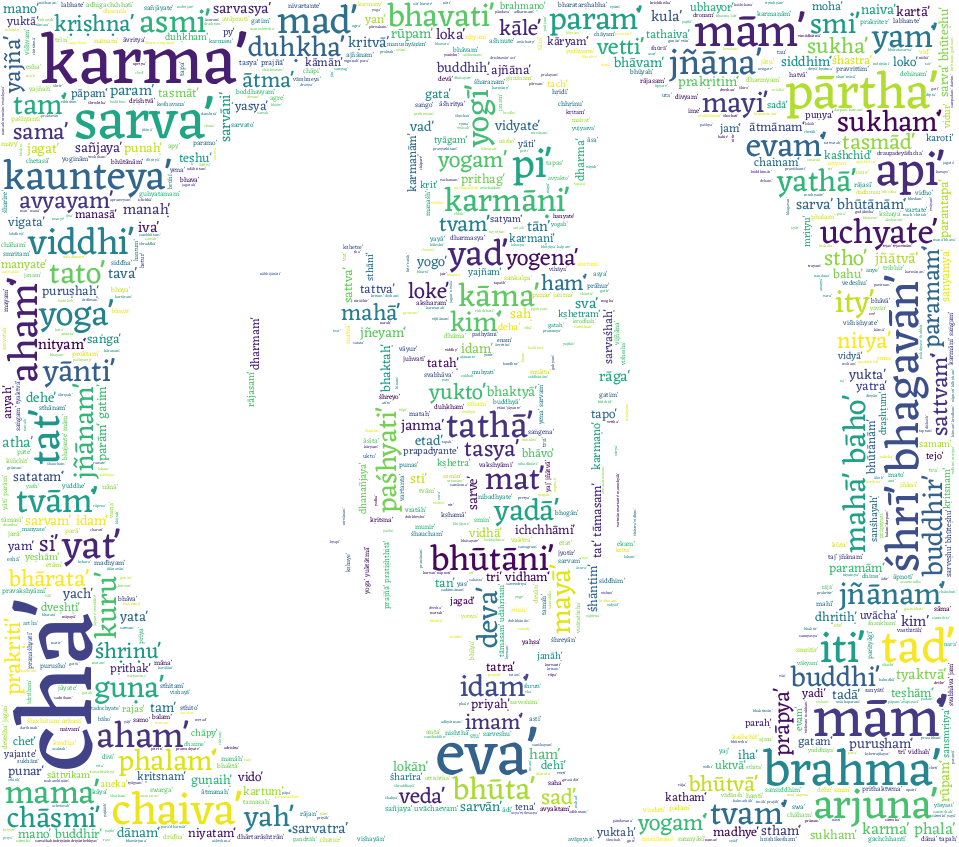
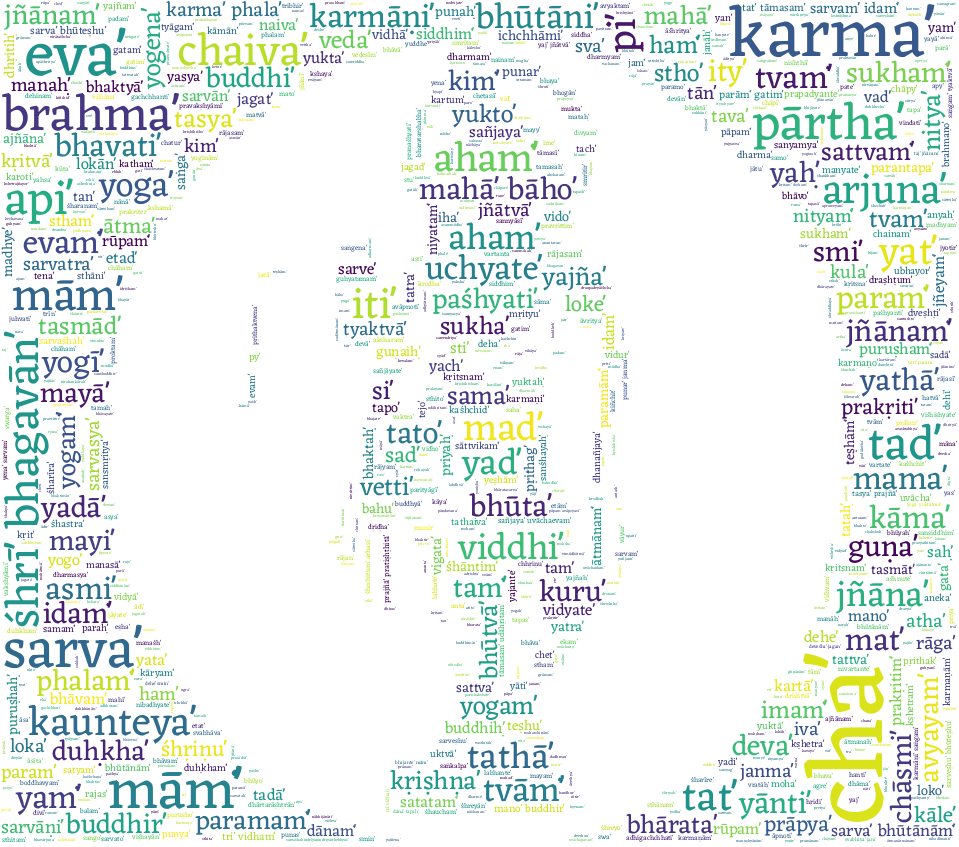
hindi plots, speaker frequency

Changed region(s): [[0.0, 0.0, 0.9979, 1.0], [0.2419, 0.3684, 0.2722, 0.4911], [0.2722, 0.307, 0.3024, 0.3377]]

diff --git a/analysis.py b/analysis.py
@@ -13,6 +13,7 @@ import collections
 from nltk.probability import FreqDist
 from nltk.text import Text
 import nltk
+from tqdm import tqdm
 
 # from indic_transliteration import sanscript
 # Input data files are available in the "../input/" directory.
@@ -229,21 +230,104 @@ def Translit_Wordcloud(data_flat1,savename):
     # stopwords.remove("arjun")
     # stopwords.remove("krishna")
 
-    sherlock_data = Image.open("plots/Krishna.png")
+    img_data = Image.open("plots/Krishna.png")
     # sherlock_data = Image.open("/home/ubuntu/Downloads/k2.png")
-    mask = np.array(sherlock_data)
+    mask = np.array(img_data)
     # plot world cloud- generate for all, then each chapter
     wordfreq1 = collections.Counter(data_flat1)
     text = data_flat1
-    fig = plt.figure(figsize=(20, 10), facecolor='k')
+    plt.figure(figsize=(20, 10), facecolor='k')
     wordcloud = WordCloud(background_color="white", width=1300, height=600, max_words=2000,
-                          font_path='/home/ubuntu/Downloads/Eczar/Eczar-VariableFont_wght.ttf', mask=mask).generate(
-        str(text))
+                          font_path='/home/ubuntu/Downloads/Eczar/Eczar-VariableFont_wght.ttf', mask=mask).generate(str(text)) #,contour_width=1, contour_color='steelblue'
+    # wordcloud.to_file('plots/WC_krish.png')
+    wordcloud.to_file('plots/' + savename)
+    #show
     plt.imshow(wordcloud, interpolation='bilinear')
     plt.axis("off")
-    # wordcloud.to_file('plots/WC_krish.png')
-    wordcloud.to_file('plots/'+ savename)
     plt.show()
+
+
+    # #-----------create coloring from image
+    # Colorimg = Image.open("plots/k2.png")
+    # mask = np.array(Colorimg)
+    # image_colors = ImageColorGenerator(mask)
+    # # plot world cloud- generate for all, then each chapter
+    # wordfreq1 = collections.Counter(data_flat1)
+    # text = data_flat1
+    # fig = plt.figure(figsize=(20, 10), facecolor='k')
+    # wordcloud = WordCloud(background_color="white", width=1300, height=600, max_words=2000,
+    #                       font_path='/home/ubuntu/Downloads/Eczar/Eczar-VariableFont_wght.ttf', mask=mask).generate(
+    #     str(text))
+    # plt.imshow(wordcloud.recolor(color_func=image_colors), interpolation='bilinear')
+    # plt.axis("off")
+    # plt.show()
+    # wordcloud.to_file('plots/WC_krish.png')
+
+def get_top_sanskrit_words(BGdata,n):
+    df_verses = BGdata.apply(lambda row: row['Sanskrit'].strip().split(), axis=1)
+    data1 = []
+    for row in df_verses:
+        temp = []
+        for words in row:
+            if len(words) > 2:
+                temp.append(words)
+        data1.append(temp)
+    data_flat1 = [item for sublist in data1 for item in sublist]
+    # Getting to know the most prominent 10 words used across the documen
+    # as per my knowledge of this holy document it makes sense to see these results because of the words used such as भारत, अर्जुन, कर्म, ज्ञानं.
+    top_n_translit = [i[0] for i in sorted(dict(collections.Counter(data_flat1)).items(), key=lambda k: k[1], reverse=True)[:n]]
+    return top_n_translit, data_flat1
+
+def sanskrit_Wordcloud(data_flat1,savename):
+    # data_flat1 = get_top_words(BGdata, 5)[1]
+    # create stopword list from top_10_translit
+    # stopwords = compile_stopwords_list_frequency(top_10_translit)
+    # stopwords.remove("arjun")
+    # stopwords.remove("krishna")
+
+    stopword = open('hindi-tokenizer-master/stopwords.txt', 'r')
+    stop_words = []
+    # pre-process stopword
+    for i in stopword:
+        i = re.sub('[\n]', '', i)
+        stop_words.append(i)
+        stopwords = set(stop_words)
+
+    # creating a dictionary of all the words with values as their counts.
+    # wordfreq = {}
+    # for w in tqdm(data_flat1):
+    #     if w in wordfreq.keys():
+    #         wordfreq[w] += 1
+    #     else:
+    #         wordfreq[w] = 1
+
+    img_data = Image.open("plots/Krishna.png")
+    # sherlock_data = Image.open("/home/ubuntu/Downloads/k2.png")
+    mask = np.array(img_data)
+    # plot world cloud- generate for all, then each chapter
+    wordfreq1 = collections.Counter(data_flat1)
+    # text = data_flat1
+    plt.figure(figsize=(20, 10), facecolor='k')
+    wordcloud = WordCloud(background_color="white", width=1080, height=960, max_words=2000,
+                          font_path='/home/ubuntu/Downloads/chandas.ttf',
+                          mask=mask,min_font_size = 5,stopwords=stopwords).generate_from_frequencies(wordfreq1)
+                          #,contour_width=1, contour_color='steelblue'
+                          # font_path='/home/ubuntu/Downloads/Yatra_One/YatraOne-Regular.ttf',
+                          # stopwords=stopwords)
+                          # /home/ubuntu/Downloads/lohit_devanagari/Lohit-Devanagari.ttf
+
+    # wordcloud = WordCloud(font_path='/home/ubuntu/Downloads/chandas.ttf', width=1080, height=960,
+    #                       background_color='black',
+    #                       max_words=100,
+    #                       collocations=False,
+    #                       min_font_size=5).generate_from_frequencies(wordfreq)
+    # wordcloud.to_file('plots/WC_krish.png')
+    wordcloud.to_file('plots/' + savename)
+    #show
+    plt.imshow(wordcloud, interpolation='bilinear')
+    plt.axis("off")
+    plt.show()
+
 
     # #-----------create coloring from image
     # Colorimg = Image.open("plots/k2.png")
@@ -274,92 +358,125 @@ class txt_color:
    END = '\033[0m'
 
 
-# df.to_csv(file_name, sep='\t', encoding='utf-8')
 
 
-#-----------------------main code
-#--------redo getverse -save csv
-# get_verses()
+if __name__ == "__main__":
+    #-----------------------main code
+    #--------redo getverse -save csv
+    # get_verses()
 
-#---------------------ANALYSE Sanskrit
-# Opening JSON file
-# f = open('LP_verses.json')
-# Verses = json.load(f)
-# f.close()
-# ---------------OLD way
-# Verses=get_data('LP_verses.json')
-# df_verses = pd.DataFrame(Verses)
-# df_verses.rename(columns ={0:'hindi'}, inplace = True)
-# ----------------OLD way
-# nltk.download('punkt')
+    #---------------------ANALYSE Sanskrit
+    # Opening JSON file
+    # f = open('LP_verses.json')
+    # Verses = json.load(f)
+    # f.close()
+    # ---------------OLD way
+    # Verses=get_data('LP_verses.json')
+    # df_verses = pd.DataFrame(Verses)
+    # df_verses.rename(columns ={0:'hindi'}, inplace = True)
+    # ----------------OLD way
+    # nltk.download('punkt')
+    # df.to_csv(file_name, sep='\t', encoding='utf-8')
 
+    # Load data from analyse function
+    BGdata= pd.read_csv('BG_dataframe.csv') # ['Chapter','Verse','Sanskrit','Transliteration']
 
-BGdata= pd.read_csv('BG_dataframe.csv') # ['Chapter','Verse','Sanskrit','Transliteration']
+    # --------------Barchart #------plot chapter-verse#
+    # plot_barchart()
 
-# --------------Barchart #------plot chapter-verse#
-# plot_barchart()
-
-#<---------------Transliteration section
-#get top n words
-# top_n_translit,data_flat=get_top_words(BGdata,20)
-# # for w in enumerate(top_n_translit):
-# #     print(txt_color.PURPLE +'top 5 words are:' + txt_color.END + top_n_translit[w.index(0)])
-# print(top_n_translit)
-
-#Make wordcloud of all verses
-# Translit_Wordcloud(data_flat,'WC_krish.png')
-
-#Common words for each chapter
-for i in range(1,2):
-    # i=1
-    BGdata2=BGdata[BGdata.Chapter==i]
-    top_n_translit,data_flat=get_top_words(BGdata2,10)
+    #<---------------Transliteration section
+    #get top n words
+    # top_n_translit,data_flat=get_top_words(BGdata,20)
+    # # for w in enumerate(top_n_translit):
+    # #     print(txt_color.PURPLE +'top 5 words are:' + txt_color.END + top_n_translit[w.index(0)])
     # print(top_n_translit)
-    bgita = Text(data_flat)
-    bgita.concordance('uvācha')
-    print(f'"Krishna" appears {data_flat.count("kṛiṣhṇa")} time(s) in chapter {i}')
-    print(f'"Arjuna" appears {data_flat.count("arjuna")} time(s) in chapter {i}')
-    # print(f'"cha" appears {data_flat.count("cha")} time(s)')
-    # savenm='wc_krish2_chapt{}.png'.format(i)
-    # Translit_Wordcloud(data_flat,savenm)
 
-#Count speakers
+    #Make wordcloud of all verses
+    # Translit_Wordcloud(data_flat,'WC_krish.png')
 
+    #Common words for each chapter - double check!
+    # for i in range(1,2):
+    #     # i=1
+    #     BGdata2=BGdata[BGdata.Chapter==i]
+    #     top_n_translit,data_flat=get_top_words(BGdata2,10)
+    #     # print(top_n_translit)
+    #     bgita = Text(data_flat)
+    #     bgita.concordance('uvācha')
+    #     print(f'"Krishna" appears {data_flat.count("kṛiṣhṇa")} time(s) in chapter {i}')
+    #     print(f'"Arjuna" appears {data_flat.count("arjuna")} time(s) in chapter {i}')
+    #     # print(f'"cha" appears {data_flat.count("cha")} time(s)')
+    #     # savenm='wc_krish2_chapt{}.png'.format(i)
+    #     # Translit_Wordcloud(data_flat,savenm)
 
-
-#<----------------------hindi section
-#get common words df_verses.head()
-df_verses = BGdata.apply(lambda row: row['Sanskrit'].strip().split(), axis=1)
-data = []
-for row in df_verses:
-    temp = []
-    for words in row:
-        if len(words)>2:
-            temp.append(words)
-    data.append(temp)
-data_flat = [item for sublist in data for item in sublist]
-
-# Getting to know the most prominent 10 words used across the documen
-# as per my knowledge of this holy document it makes sense to see these results because of the words used such as भारत, अर्जुन, कर्म, ज्ञानं.
-top_10 = [i[0] for i in sorted(dict(collections.Counter(data_flat)).items(), key=lambda k: k[1], reverse=True)[:20]]
-print(top_10)
-
-stopword=open('hindi-tokenizer-master/stopwords.txt','r')
-stop_words=[]
-# pre-process stopword
-for i in stopword:
-    i = re.sub('[\n]', '', i)
-    stop_words.append(i)
-    stopwords = set(stop_words)
+    #Count speakers
 
 
-#plot world cloud- generate for all, then each chapter
-wordfreq = collections.Counter(data_flat)
-text = data_flat
-fig = plt.figure(figsize=(20,10), facecolor='k')
-wordcloud = WordCloud(width=1300, height=600,max_words=2000,font_path='/home/ubuntu/Downloads/Yatra_One/YatraOne-Regular.ttf',stopwords = stopwords).generate(str(wordfreq))
-plt.imshow(wordcloud,interpolation='bilinear')
-plt.axis("off")
-plt.show()
 
-# /home/ubuntu/Downloads/lohit_devanagari/Lohit-Devanagari.ttf
+    #<----------------------hindi section
+    top_n_Sans,data_flat_sans=get_top_sanskrit_words(BGdata,15)
+    print(top_n_Sans)
+    # sanskrit_Wordcloud(data_flat_sans,'WC_sans_krish.png')
+    print(f'"Krishna" appears {data_flat_sans.count("श्रीभगवानुवाच")} time(s)')
+    print(f'"Arjuna" appears {data_flat_sans.count("अर्जुन")} time(s)')
+
+    # joined = " ".join(data_flat_sans)
+    sum(data_flat_sans.count(x) for x in ("श्रीभगवानुवाच", "माधव","केशव","हृषिकेश","अच्युत","मधुसूदन","मुरारि","केशव","दामोदर","वसुदेव","गोविंद","मुरली"))
+
+    #collect each speaker
+    # Arjun_verse=[]
+    # Arjun_verse_translit = []
+    Krishna_verse = []
+    Krishna_verse_translit = []
+
+    Arjun_verse = pd.DataFrame(columns=['Chapter', 'Verse', 'Sanskrit', 'Transliteration'])
+
+    for index,ver in enumerate(BGdata['Sanskrit']):
+        line=ver
+        translit_line=BGdata['Transliteration'][index]
+        i=BGdata['Chapter'][index]
+        v=BGdata['Verse'][index]
+
+        if line.find(u'अर्जुन उवाच') > -1:
+            speaker = 'Arjun'
+            Arjun_verse=Arjun_verse.append({'Chapter': i, 'Verse': v, 'Sanskrit': line, 'Transliteration': translit_line},ignore_index = True)
+            # Arjun_verse.append(line)
+            # Arjun_verse_translit.append(translit_line)
+            continue
+        if line.find(u'श्रीभगवानुवाच') > -1:
+            speaker = 'Bhagawan'
+            Krishna_verse.append(line)
+            Krishna_verse_translit.append(translit_line)
+            continue
+        if line.find(u'सञ्जय उवाच') > -1:
+            speaker = 'Sanjay'
+            continue
+        if line.find(u'धृतराष्ट्र उवाच') > -1:
+            speaker = 'Dhritarashtra'
+            continue
+        # if (line.find(u'ॐ तत्सदिति श्रीमद्भगवद्गीतासूपनिषत्सु') > -1) or (line.find(u'ब्रह्मविद्यायां') > -1) or (
+        #         line.find(u'ध्यायः') > -1):
+        #     speaker = 'None'
+        #     continue
+    for v in Arjun_verse['Transliteration']:
+        print(v)
+
+
+
+
+
+    #plot world cloud- generate for all, then each chapter
+    for i in range(1,2):
+        # i=1
+        BGdata2=BGdata[BGdata.Chapter==i]
+        top_n_Sans,data_flat_sans=get_top_sanskrit_words(BGdata2,10)
+        # print(top_n_translit)
+        # bgita = Text(data_flat)
+        # bgita.concordance('uvācha')
+        print(f'"Krishna" appears {data_flat_sans.count("श्रीभगवानुवाच")} time(s) in chapter {i}')
+        print(f'"Krishna" appears {data_flat_sans.count("हृषीकेशो")} time(s) in chapter {i}')
+        print(f'"Arjuna" appears {data_flat_sans.count("अर्जुन")} time(s) in chapter {i}')
+        # print(f'"cha" appears {data_flat.count("cha")} time(s)')
+        # savenm='wc_sans_krish2_chapt{}.png'.format(i)
+        # sanskrit_Wordcloud(data_flat_sans,savenm)
+
+
